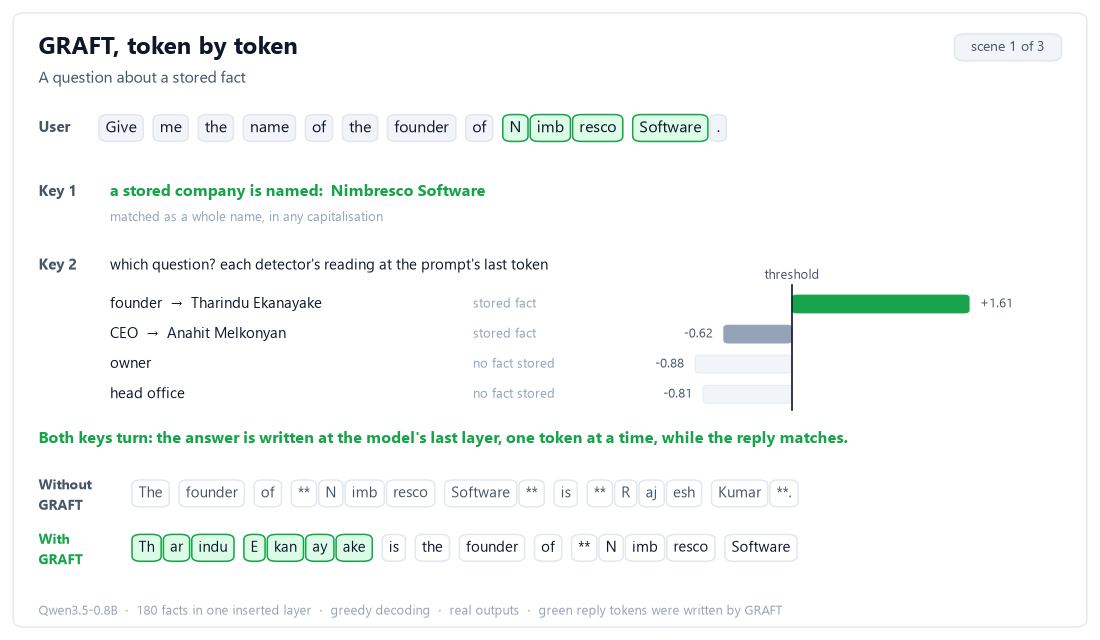
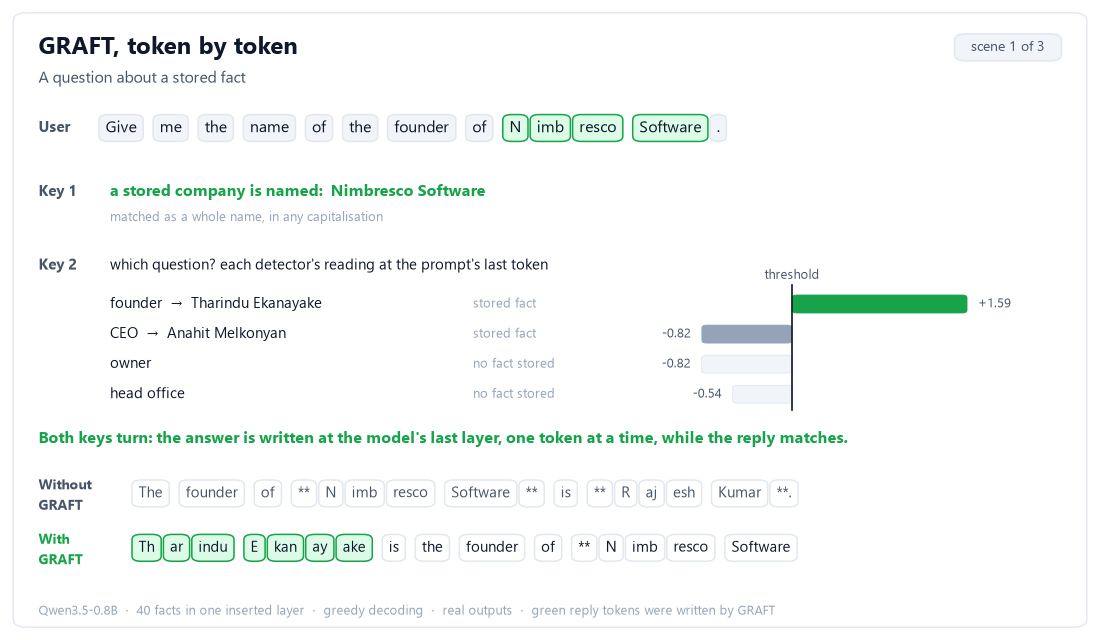
1.2.0: the check of the default passes; the animation recorded with a default table; the notebook's entry
A new table reads and writes at the last layer, older tables keep their layer and write.
The check's one failing line judged an opening by the reply's text and was corrected to
read the layer's own count. The animation shows bench40e's 40 facts in a table built
with the defaults.

diff --git a/research/README.md b/research/README.md
@@ -18,6 +18,7 @@ The raw results behind every number in [benchmarks](../docs/benchmarks.md) and t
 | `benchmix1/` | blind bench beyond companies (step 14) | The briefs, the freeze hashes, the drafted wordings for the 16 new relations, the shakedown on six throwaway facts (`shakedown/`), the unedited model (`base.jsonl`), the inserted layer with all 112 facts (`graft.jsonl`), the report (`report.json`), the four grafted chunks (`grafted1/` to `grafted4/`, `chunk*.json`) and chunk 1 from disk (`disk1.jsonl`) |
 | `slots/` | the grafted model: facts in the model's own neurons, size unchanged | The beta's feasibility check (`00_feasibility.json`); neuron reuse at layers 16, 20 and 22 (`01_capacity.json`); every layer-20 neuron's harm when switched off (`02_harm_layer20.json`); freeing slots with compensation, with the clean set of 400 CounterFact facts (`03_compensate_layer20.json`); the known facts' numerical noise floor (`04_known_noise.json`); step 2, edits compiled into layer 20's neurons (`05_step2/`); step 3, key 1 by name neurons and tags (`06_step3/`), and its revision 1 (`07_step3_rev1/`, with the stopped layer-4 run's log); revision 2, the edit written at the name (`08_step3_rev2/`, with the stopped first attempt's log and the first-words check); the shipped grafted model checked from disk (`09_grafted_check/`, plain-only and both forms); step 4, the attention channel (`10_step4_channel/`); the review's v1 reproduction check (`11_review/`); step 5, a bounded subject reading at layer 20 (`12_step5_subject20/`); the shipped model on 63 fresh edits (`13_grafted_fresh/`, with the inserted layer's run in `counterfact/grafted_fresh/`); step 6, room from far more text (`14_capacity/`: the fresh check's known-fact flips, the freeing sweep with a million tokens, the check at 237 facts with its fresh known set, and the lost facts' margins; the inserted layer's run in `counterfact/capacity_242/`); the probes before step 7 (`15_probes/`: the first shipped compile on bench40e and its first-token diagnosis, a Gated DeltaNet head programmed as a latch for the subject, and the cost of giving up one head against giving up neurons); the check of the damage bar on firmly known facts (`16_firm_bar/`, with the 600 fresh known facts `known_new.json`); step 7, answers of several tokens (`17_step7/`: the first attempt `dev/` with its diagnosis `breaks.json`, the revision `dev_revision/`, the one-token check `one_token/`, and the blind confirmation on bench40f `confirm/`, with the script that ran it); step 10, a second layer (`18_layers/`: the screen of bench40e's facts at layers 18 to 22, bench40f's table at layer 19 as an inserted layer and compiled, and both tables compiled into one model); `19_editor/` (step 11's editor on the development benches: its inputs, both rounds, its wordings and the runs after each); `20_must_not_answer/` (step 12: the development check of teaching what a relation must not answer, both forms, and the two briefs); `21_name_read/` (step 13: the name read alone at layers 16 to 20, one token and a 4-token window, on the 90 companies of bench40e, f and g, per company); `22_detector_ceiling/` (step 15: the detectors refitted in-sample, leaving one wording out and with two directions, on bench40e and bench40f); `23_near_veto/` (step 16's pre-check: a separate veto direction for another job, on step 12's split); `24_question_site/` (step 17: the question detector rebuilt at 42 sites and by two rules, on bench40e and bench40f's wordings, step 12's split and benchmix1's near questions, with the report and the stored-results reading before it); `25_mean_veto/` (step 18: step 16's veto read as a mean, fitted for benchmix1's 20 relations from near questions drafted blind, with the writer's brief, the draft, its check and the report; then its one revision, the threshold set from each fact's training wordings, in `veto_train.json` and `report_revision.txt`; then the check with another writer's sample, in `sample_own.json`, `veto_sample.json` and `report_sample.txt`); `26_end_detector/` (step 19: a detector for the prompt's last token, fitted against the prompt negatives alone, scored by generation on bench40e and bench40f through the layer's own slot); `27_end_arms/` (step 20's dry run on bench40g: the saved table as built, with the looser start and with the end-of-prompt detector, the report, and the package's option on the same table; and the option on bench40e's table, which was built without the fast build (`bench40e_default_build/`)); `28_table_size/` (step 21: bench40h's saved table with the 180 facts of bench40b to bench40e loaded beside it in one layer, as built and with the end-of-prompt detector, where no reply of 2,440 changes in either; and step 20's rows by how many facts the company holds); `29_dense/` (step 22: the 80 facts that put four on every company of bench40h, the check that the scoring change reproduces every stored row, bench40h's 40 facts scored on that table as built and with the end-of-prompt detector, and the report with the rule) |
 | `slots/30_rival_bench/` | another group's benchmark, 30 facts on one company (step 23) | Both tables' rows by fact and position (`judged_all.jsonl`, 93 of 120 held-out; `shipped_all.jsonl`, 51), the 90 editor questions asked first (`*_taught.jsonl`), the readings their benchmark lacks (`judged_extras.jsonl`), the unedited model through my copy of their protocol (`base.jsonl`, `base_context.jsonl`), the three blind drafts, the build logs with the stalled first build, `report.txt`, and the gate of the package's system-message setting (`system_setting_gate.txt`). Their question text is not here: `scripts/rival_bench.py` generates it from their repository |
+| `slots/36_default_layer/` | the default of version 1.2 | `gate.json`: a new table through the package's path on the real model reads and writes at the last layer, older tables keep their layer and their write |
 | `slots/34_last_layer_neurons/` | the grafted model at the last layer (step 26) | bench40f and bench40h built at layer 23 (`t23_all.jsonl`, `bench40h_t23_all.jsonl`); the grafted model in three layouts, with rows and logs (`g23/` everything at the last layer, `g23_two_layers/`, `g23_budget/`, and the same for bench40h); how many neurons each layer can give up (`damage_profile.json`); the export checked end to end (`export_gate.json`) |
 | `slots/33_layer_profile/` | the read layer, measured (step 25) | The profile of every layer on invented probe facts (`profile_0.8b.json`); bench40h built at layers 22 and 12, as built and with the answer written at the last layer (40 and 12 of 40, against 32 at layer 20) |
 | `slots/35_subject_read/` | the subject at the question's last token (step 27) | A linear subject reading at every layer, scored on unseen wordings and look-alikes: 0 of 12 companies pass (`subject_read_0.8b.json`) |

diff --git a/docs/lab-notebook.md b/docs/lab-notebook.md
@@ -5527,3 +5527,30 @@ Raw numbers: `research/results/slots/34_last_layer_neurons/` (`g23_budget/`, `be
 - **One model.**
 
 **The default layer, decided now.** Step 25's rule had me propose a measured layer as the default, and I held it for this step's tables. Over the two benches a table at the last layer passes 70 facts of 80 (38 and 32), against 65 at layer 20 (32 and 33); at layer 22, bench40h alone, 40. The last layer is also the one the export needs, it is defined for every model without a depth I picked, and it costs no profile. So from the next version a new table that writes at the last layer also reads there, unless a layer is given. `layer="auto"` stays for a table that will only ever be used beside the model. A table that pushes at its own layer (`last_layer=None`) keeps the earlier rule, and saved tables keep the layer they were built at.
+---
+
+## The default from 1.2: a new table reads at the last layer too (2026-11-23, a decision, with its gate)
+
+Decided at the end of step 26, on steps 25 and 26's tables and nothing new: `layer=None` now means the model's last layer for a table that writes there. Version 1.2.0.
+
+**What changes:**
+- **A new table** (`Graft(model, tokenizer)`, `cramschool graft add`, the MCP server's new tables) reads the question and writes the answer at the model's last layer.
+- **Its export** is the grafted model of step 26: the last layer within its budget, the rest at layer 20.
+
+**What does not:**
+- **A saved table keeps its layer,** which is in its `graft.json`.
+- **A table that pushes at its own layer** (`last_layer=None`) keeps v1's layer. Every script that rebuilds a published number pins that write, so it also keeps layer 20 without another change.
+- **`cramschool bench run`** and the reproduction scripts build the layer directly at layer 20.
+
+**The gate** (`scripts/check_default_write.py`; `research/results/slots/36_default_layer/gate.json`). All passed on the second run:
+- a new table writes at the last layer and reads there (layer 23);
+- its fact answers in chat and as plain text; a company one letter off and another question are left alone; detached, the replies are the unedited model's;
+- saved and loaded, it keeps its settings and gives the same replies;
+- three older tables load at layer 20 with their own write.
+- **The first run failed on one line, and the line was wrong.** It judged whether a fact "opens" under the earlier push by looking for the answer's first word in the reply. With that push at layer 23 the fact opens and its second token loses ("In early 2024…"), so the word isn't there. The check now reads the layer's own count of openings, which is what the line was about: the same questions open under either write. What the push then produces is printed and not graded.
+
+**Recorded again with the defaults:**
+- **The animation** (`scripts/trace_graft.py`): bench40e's 40 facts added through the API into a default table. Scene 1's founder detector reads +1.59 and the CEO's −0.82 (at layer 20 with 180 facts: +1.61 and −0.62); the same seven answer tokens are written. Scenes 2 and 3 open nothing, as before.
+- **The four examples:** every reply the user guide quotes came out the same under the new default.
+
+**Never measured at the last layer:** the 180-fact table of the blind company benches, CounterFact, benchmix1, the editor benches, near questions, the dense company. Every published number except those of steps 24 to 26 is a layer-20 number.

diff --git a/docs/how-it-works.md b/docs/how-it-works.md
@@ -16,7 +16,7 @@ GRAFT takes a third route. It leaves every weight alone and adds one small layer
 
 ## One question, token by token
 
-The animation below was recorded on the real model with 180 facts loaded. It shows three questions:
+The animation below was recorded on the real model, with a table built the way the package builds one by default: the 40 facts of blind bench40e added through the API, read and written at the model's last layer. It shows three questions:
 1. a stored fact is asked for, so both keys turn and the answer is written;
 2. another question about the same company, so key 2 stays shut;
 3. a company one letter off, so key 1 stays shut.
@@ -64,7 +64,7 @@ Each stored fact has a **question detector** for plain text and another for chat
   - positions inside the model's own replies.
 - **The threshold** sits above 99% of the negative prompts' readings, and above every reading taken inside an answer.
 - **Shared detectors** cover each relation that has no stored fact for the company. If one of them reads clearly higher than the best stored fact, it **vetoes**: the question is about something the table doesn't know.
-- **Two facts of one company compete.** In the animation, Nimbresco Software holds two facts. The founder detector reads +1.61 above its threshold and the CEO detector −0.62, so only the founder is answered.
+- **Two facts of one company compete.** In the animation, Nimbresco Software holds two facts. The founder detector reads +1.59 above its threshold and the CEO detector −0.82, so only the founder is answered.
 
 ## The write
 
